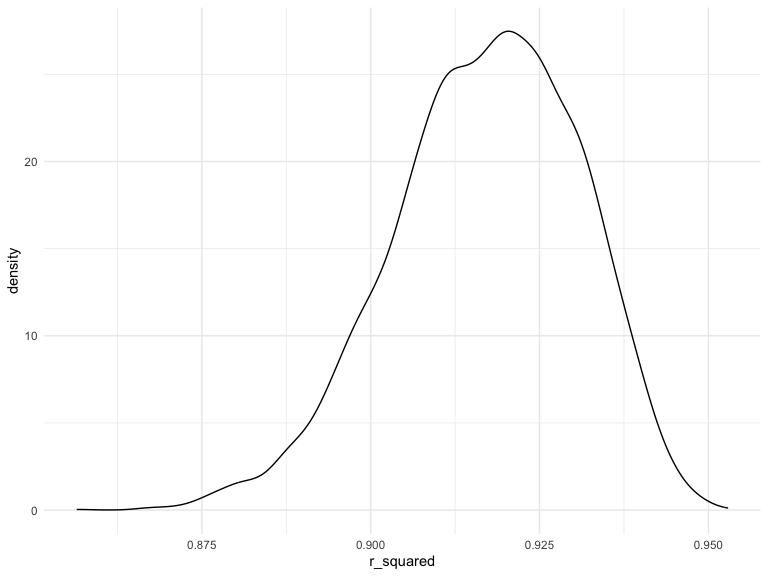
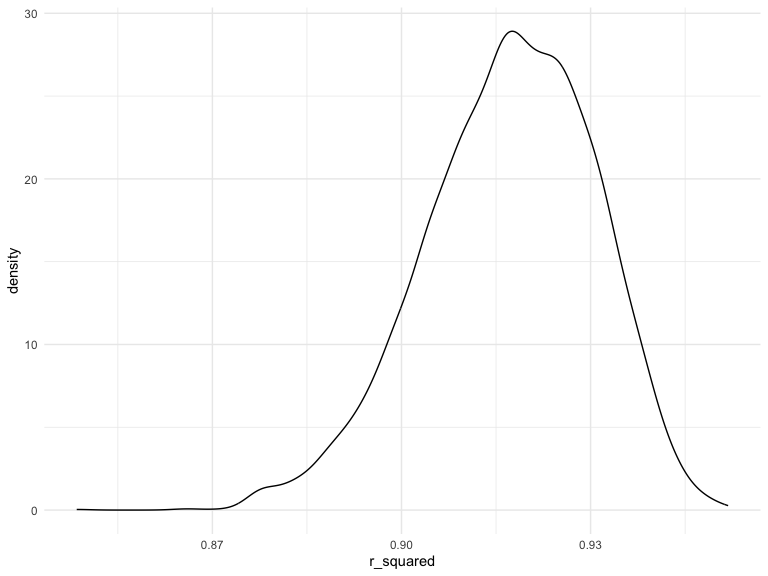
95% CI for r-squared and log(b1*b2)

diff --git a/p8105_hw6_tl3195.md b/p8105_hw6_tl3195.md
@@ -55,24 +55,7 @@ boot_straps =
     logb = log(prcp * tmin)
   )|>
   select(strap_number, r_squared, logb)
-
-boot_straps
 ```
-
-    ## # A tibble: 5,000 × 3
-    ##    strap_number r_squared   logb
-    ##           <int>     <dbl>  <dbl>
-    ##  1            1     0.941 NaN   
-    ##  2            2     0.927 NaN   
-    ##  3            3     0.920 NaN   
-    ##  4            4     0.922 NaN   
-    ##  5            5     0.929 NaN   
-    ##  6            6     0.927  -5.57
-    ##  7            7     0.923 NaN   
-    ##  8            8     0.933 NaN   
-    ##  9            9     0.928 NaN   
-    ## 10           10     0.928 NaN   
-    ## # ℹ 4,990 more rows
 
 \*Plot the distribution of r_squared
 
@@ -94,3 +77,31 @@ boot_straps|>
 ```
 
 <img src="p8105_hw6_tl3195_files/figure-gfm/unnamed-chunk-4-1.png" width="90%" />
+
+The first plot shows the distribution of the r-squared values from the
+data, it peaks at around 0.91. The second plot shows the distribution of
+log(b1\*b2) from the data, it peaks at around -5.5. Both the plots are
+left-skewed but the first plot appears slightly skewed to the left.
+
+\*95% CI for r_squared and logb
+
+``` r
+boot_straps|>
+  filter(!is.na(logb))|>
+  pivot_longer(
+    r_squared:logb,
+    names_to = "term",
+    values_to = "estimate"
+  )|>
+  group_by(term)|>
+  summarize(
+    ci_lower = quantile(estimate, 0.025),
+    ci_upper = quantile(estimate, 0.075)
+  )|>
+  knitr::kable(digits = 3)
+```
+
+| term      | ci_lower | ci_upper |
+|:----------|---------:|---------:|
+| logb      |   -8.949 |   -7.924 |
+| r_squared |    0.881 |    0.889 |
